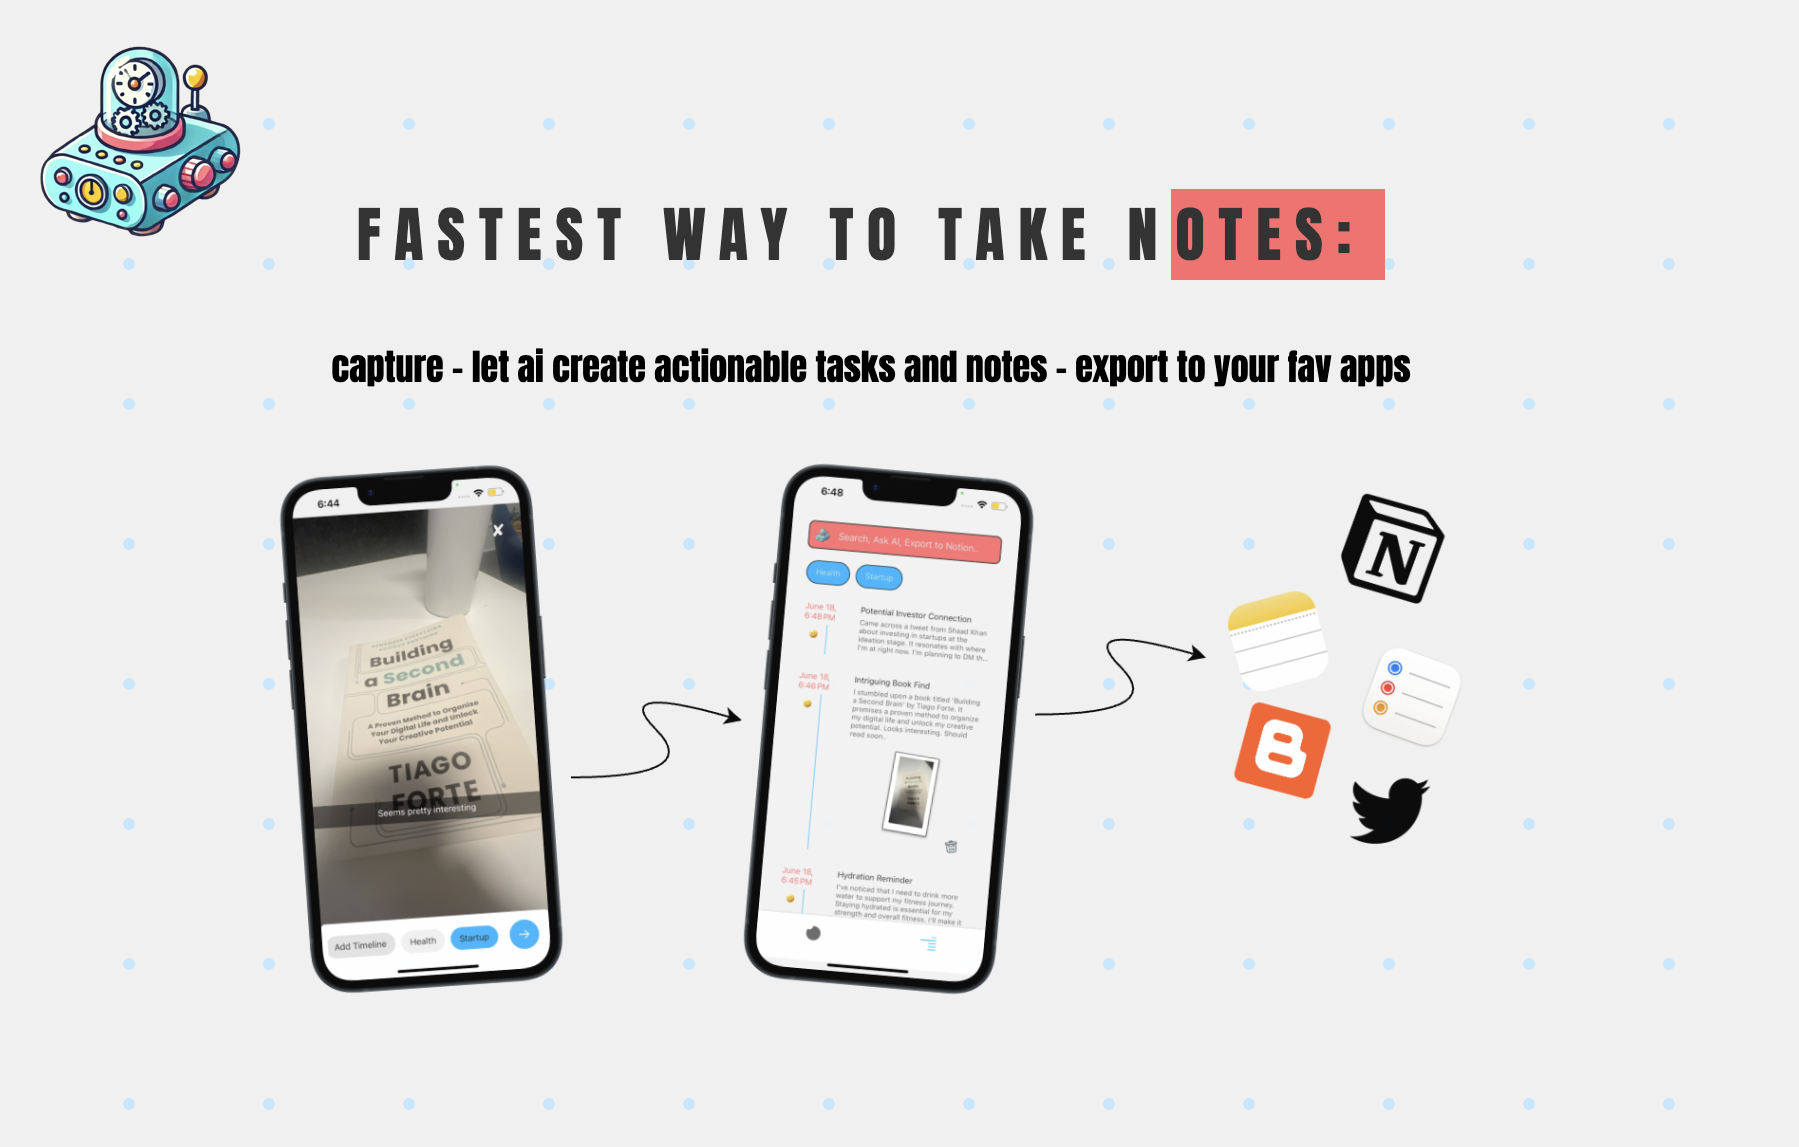
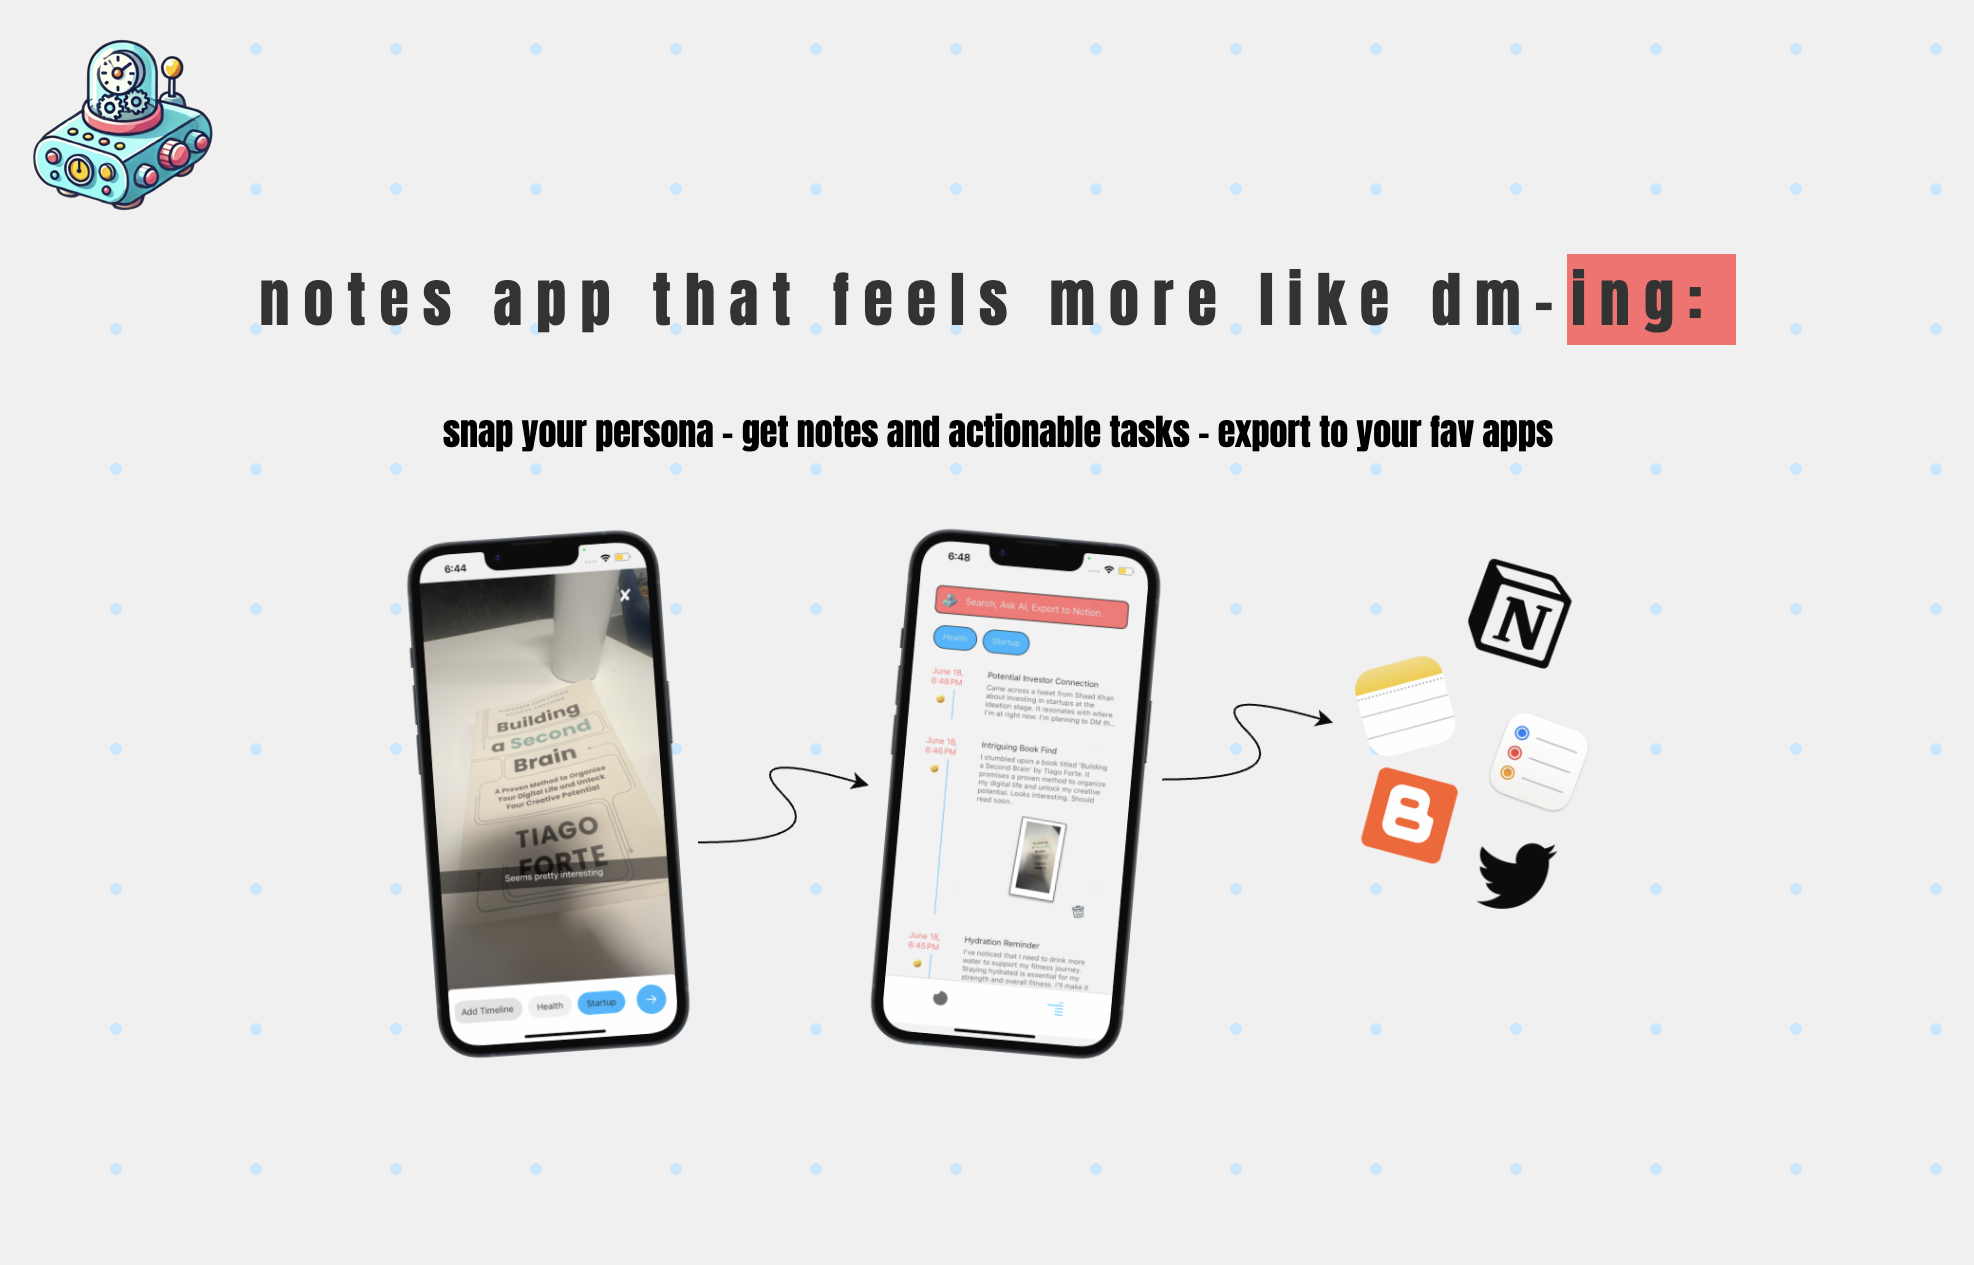
updates

diff --git a/index.htm b/index.htm
@@ -10,40 +10,40 @@
     <link rel="icon" href="assets/timemachine_icon.png" type="image/x-icon">
 
     <!-- SEO Meta Tags -->
-    <meta name="description" content="Time Machine is the fastest way to take notes. Capture ideas, let ai create actionable tasks and notes, and export to your favorite app. join our waitlist now!">
-    <meta name="keywords" content="note-taking, AI notes, actionable tasks, productivity, time machine, fast notes">
+    <meta name="description" content="time machine is a notes app that feels more like dm-ing. snap your persona, get notes and actionable tasks and export to your fav apps. join our waitlist now!">
+    <meta name="keywords" content="note-taking, ai notes, actionable tasks, productivity, time machine, fast notes, social notes, dm notes">
     <meta name="author" content="time machine">
     
     <!-- Open Graph Meta Tags for social media -->
-    <meta property="og:title" content="Time Machine: Fastest way to take notes">
-    <meta property="og:description" content="Capture ideas, let ai create actionable tasks and notes, and export to your favorite app. join our waitlist now!">
+    <meta property="og:title" content="time machine: notes app that feels more like dm-ing">
+    <meta property="og:description" content="snap your persona, get notes and actionable tasks and export to your fav apps. join our waitlist now!">
     <meta property="og:image" content="https://timemachine-app.github.io/assets/metadata_image.png">
     <meta property="og:url" content="https://timemachine-app.github.io">
     <meta property="og:type" content="website">
     
     <!-- Twitter Card Meta Tags -->
     <meta name="twitter:card" content="summary">
-    <meta name="twitter:title" content="Time Machine: Fastest way to take notes">
-    <meta name="twitter:description" content="Capture ideas, let ai create actionable tasks and notes, and export to your favorite app. join our waitlist now!">
+    <meta name="twitter:title" content="time machine: notes app that feels more like dm-ing">
+    <meta name="twitter:description" content="snap your persona, get notes and actionable tasks and export to your fav apps. join our waitlist now!">
     <meta name="twitter:image" content="https://timemachine-app.github.io/assets/metadata_image.png">
 </head>
 <body>
     <div class="main-container">
         <img src="assets/timemachine_icon.png" class="logo" />
         <div class="header-container">
-            <span class="title-text">fastest way to take n<span class="notes-hightlight">otes:</span></span>
-            <span class="action-text">join our waitlist</span>
+            <span class="title-text">notes app that feels more like dm-<span class="notes-hightlight">ing:</span></span>
+            <span class="action-text">get early access</span>
         </div>
         <div class="form-container">
             <form class="signup-form" method="POST" action="https://script.google.com/macros/s/AKfycbwzvPZ2BxBHSlFk4YcVzN-10ZucYHXs9CJ6lC5yhWy17TI-zTx2QCMoAa_9_GhuvEfb/exec" target="hidden_iframe" onsubmit="submitted=true; showLoading();">
-                <input type="email" name="email" placeholder="Your email address" required>
-                <button type="submit" id="submit-btn">Join the waitlist →</button>
-                <div id="loading-icon" class="success-text" style="display:none;">Loading...</div>
-                <div id="success-message" class="success-text" style="display:none;">You are in.</div>
+                <input type="email" name="email" placeholder="your email address" required>
+                <button type="submit" id="submit-btn">join the waitlist →</button>
+                <div id="loading-icon" class="success-text" style="display:none;">loading...</div>
+                <div id="success-message" class="success-text" style="display:none;">you are in.</div>
             </form>
             <iframe name="hidden_iframe" id="hidden_iframe" style="display:none;" onload="if(submitted) { hideLoading(); showThankYouMessage(); }"></iframe>
         </div>
-        <div class="additional-text">capture - let ai create actionable tasks and notes - export to your fav apps</div>
+        <div class="additional-text">snap your persona - get notes and actionable tasks - export to your fav apps</div>
         <picture class="concept-container">
                 <source media="(max-width: 480px)" srcset="assets/concept-mobile.png">
                 <source media="(max-width: 768px)" srcset="assets/concept-mobile.png">

diff --git a/styles.css b/styles.css
@@ -32,7 +32,7 @@ body {
     flex-direction: column;
     justify-content: center;
     align-items: center;
-    text-transform: uppercase;
+    /* text-transform: uppercase; */
 }
 
 .title-text {
